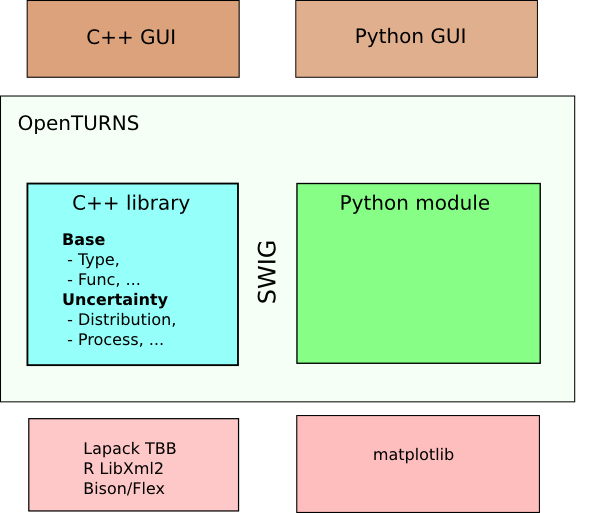
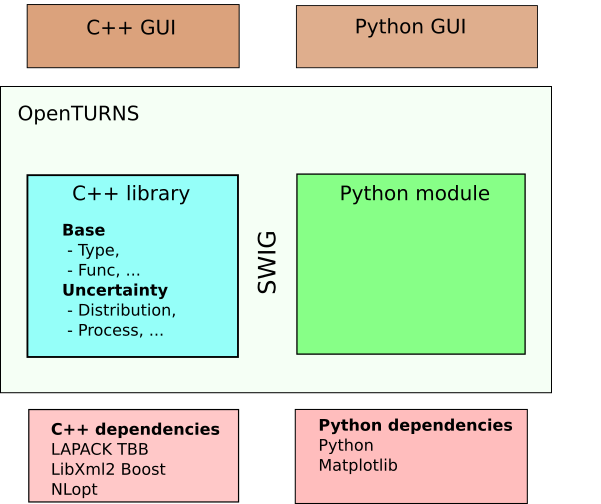
Update developer guide

diff --git a/python/doc/developer_guide/architecture.rst b/python/doc/developer_guide/architecture.rst
@@ -237,12 +237,11 @@ The tools chosen for the development of the platform are:
 The versions given here are only meant as indications of minimum version and newer ones
 may be used.
 
+
 Compilation infrastructure
 ~~~~~~~~~~~~~~~~~~~~~~~~~~
 
-The historic autotools compilation infrastructure was replaced by CMake.
-CMake is a lot faster, and the resulting infrastructure is easier to
-maintain. It covers:
+The compilation infrastructure uses CMake, it covers:
 
 -  The detection and configuration aspects of the platform;
 
@@ -252,41 +251,42 @@ maintain. It covers:
 
 -  The regression tests.
 
-CMake could also provide a way to compile the Windows version using
-Microsoft compilers.
+
+Version control
+~~~~~~~~~~~~~~~
+
+The project uses Git version-control system.
+The code repositories are hosted on GitHub (https://github.com/openturns/).
+
+
+Continuous integration
+~~~~~~~~~~~~~~~~~~~~~~
+
+The git code repository is monitored for changes by automated builds,
+allowing developers to detect problems early.
+
+Each pull-request on the GitHub code repository triggers continuous integration
+jobs for the different target platforms to be run on several free
+continuous integration services:
+
+- CircleCI (https://circleci.com/) for Linux
+- Travis (https://travis-ci.org/) for macOS
+- AppVeyor (https://www.appveyor.com/) for Windows
+
+Each of these jobs checks that the library can be successfully compiled and
+that all unit tests pass. All jobs passing is one of the necessary conditions
+for the code to be integrated.
+
 
 Packaging
 ~~~~~~~~~
 
 The team officially provides binaries for the Debian operating system,
 and Windows. Note that is officially supported in Debian: it can be
-installed easily from the debian software repositories. Experimental
-packages may be available for some RPM-based distributions such as
+installed easily from the debian software repositories. Packages
+are also available for some RPM-based distributions such as
 Fedora, CentOS and openSUSE.
 
-Autobuilder
-~~~~~~~~~~~
-
-The project provides developers a continuous integration environment.
-It consists in an daemon monitoring the version control software for
-changes. It assumes new code to be involved in regression test. Also
-developers should regularly commit to the code base to ensure the origin
-of a problem is quickly detected.
-
-The autobuilder is triggered at each pull-request.
-
-The current test environment consists of the build on each of these
-platforms:
-
--  debian 6 x86\_64
-
--  debian 6 i686
-
--  mingw-w64 i686 (wine)
-
-The result of the autobuilder made public to anyone registered to the
-mailing list ``commits@openturns.org``. A summary of each build is
-provided by mail with links to the logs stored on the server.
 
 Design patterns
 ---------------
